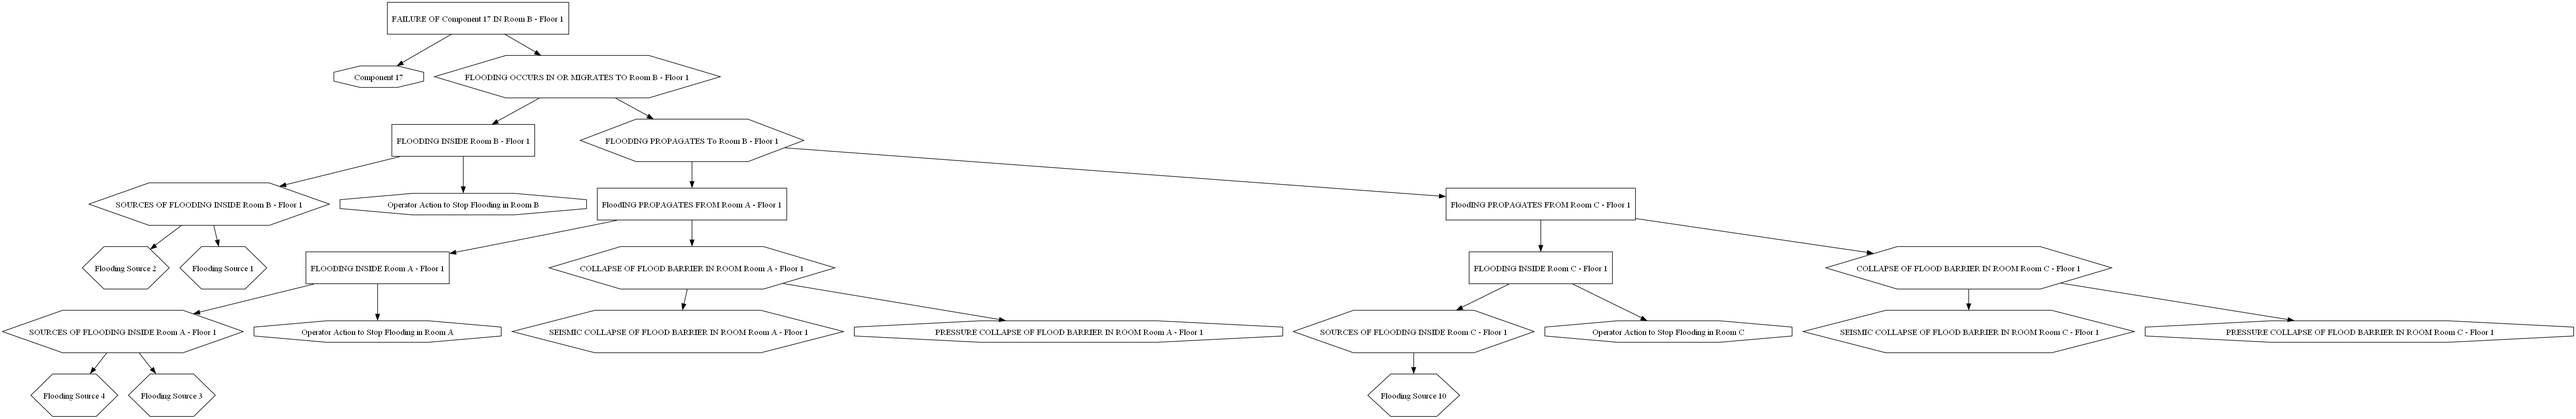
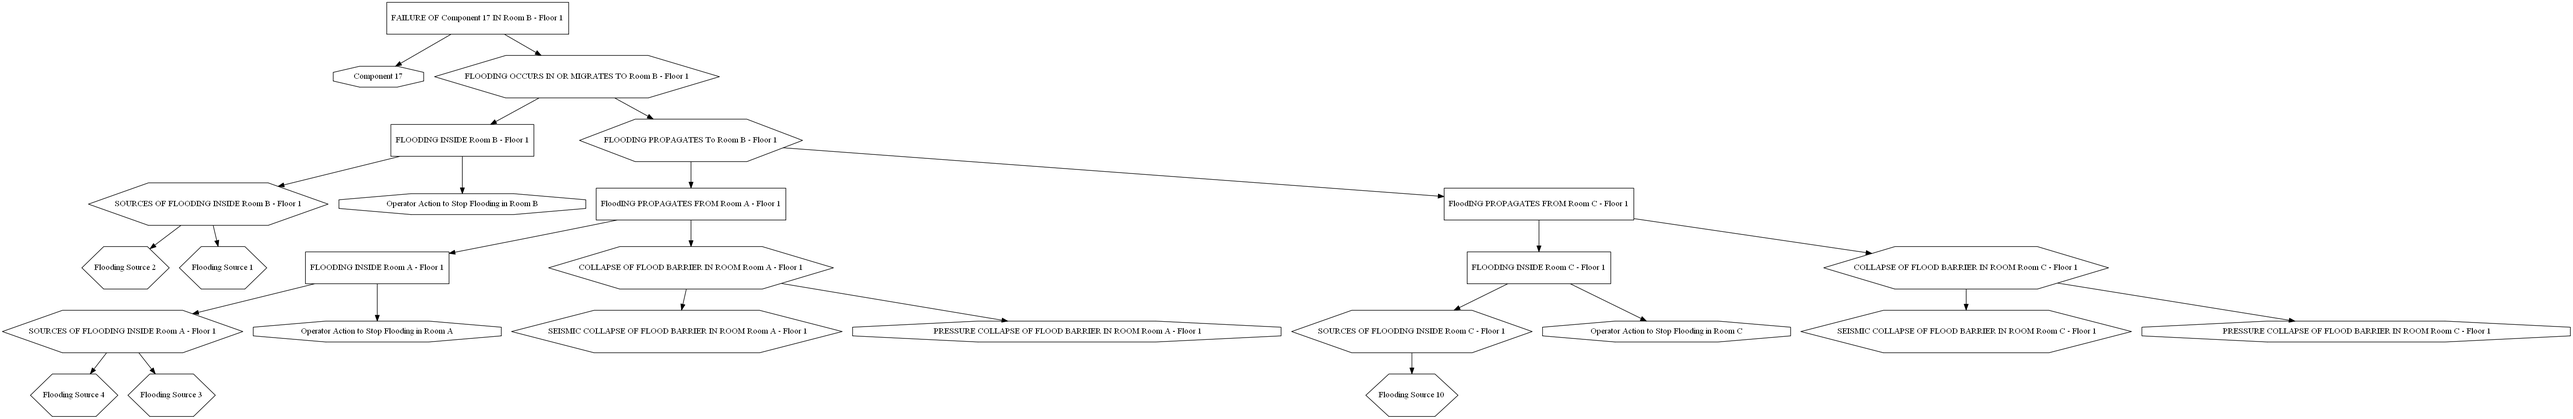
Mainshock fault tree is created by SeismicEvent class based on MongoDB

diff --git a/src/mainshock_aftershocks/tree_builder.py b/src/mainshock_aftershocks/tree_builder.py
@@ -1,0 +1,248 @@
+from src.imports import *
+
+
+class Node:
+    def __init__(self, logic_type, description, node_type,name,failure_model=None):
+        self.logic_type = logic_type
+        self.description = description
+        self.node_type = node_type
+        self.name = name
+        self.failure_model = failure_model
+
+        self.children = []
+
+
+class TreeBuilder:
+    def __init__(self,mongodb_uri,db_name):
+        self.tree = None
+        self.client = MongoClient(mongodb_uri)
+        self.db = self.client[db_name]
+        self.general_input_collection = self.db["General_Input"]
+        self.unique_gate_names = set()
+        self.unique_ft_names = set()
+        self.unique_BE_names = set()  # New set for Basic Event names
+
+    def build_tree(self, data):
+        self.tree = self._build_node(data)
+
+    def _build_node(self, node_data):
+        logic_type = node_data.get("logic_type")
+
+        # Check if logic_type is None or name is None, and if so, return None to ignore this node
+        if logic_type is None or node_data.get("name") is None:
+            return None
+
+        description = node_data.get("description")
+        node_type = node_data.get("type")
+        name = node_data.get("name")
+        failure_model = node_data.get("failure_model")  # Failure model is optional
+
+        node = Node(logic_type, description, node_type, name,failure_model)
+
+
+        if "inputs" in node_data:
+            inputs = node_data["inputs"]
+            if isinstance(inputs, dict):
+                input_node = self._build_node(inputs)
+                if input_node:
+                    node.children.append(input_node)
+            elif isinstance(inputs, list):
+                for input_node_data in inputs:
+                    input_node = self._build_node(input_node_data)
+                    if input_node:
+                        node.children.append(input_node)
+        return node
+
+    def create_graph(self, node=None, graph=None, added_edges=None):
+        if node is None:
+            node = self.tree
+        if graph is None:
+            graph = pydot.Dot(graph_type="digraph")
+        if added_edges is None:
+            added_edges = set()
+
+        if node.logic_type == "BE":
+            node_shape = "octagon"
+            node_width = 0.2
+            node_height = 0.2
+        elif node.logic_type == "OR":
+            node_shape = "hexagon"
+            node_width = 1.0
+            node_height = 1.0
+        elif node.logic_type == "AND":
+            node_shape = "rectangle"
+            node_width = 1.5
+            node_height = 0.75
+        else:
+            node_shape = "rectangle"
+            node_width = 1.0
+            node_height = 0.5
+
+        graph.add_node(pydot.Node(node.description, label=node.description, shape=node_shape, width=node_width,
+                                  height=node_height))
+
+        for child in node.children:
+            if child is not None:  # Check if child is not None
+                edge_description = f"{node.description}->{child.description}"
+                if edge_description not in added_edges:
+                    graph.add_edge(pydot.Edge(node.description, child.description))
+                    added_edges.add(edge_description)  # Add the edge to the set
+                    self.create_graph(child, graph, added_edges)
+        return graph
+
+    def visualize_tree(self):
+        graph = self.create_graph()
+        graph.write_png("seismic_fire_fault_tree.png")
+        img_path = os.path.abspath("seismic_fire_fault_tree.png")
+        img = Image.open(img_path)
+        img.show()
+
+    def print_tree(self, node=None, level=0):
+        if node is None:
+            return  # Exit the function if the node is None
+        print(node)
+        print("  " * level + f"Logic Type: {node.logic_type}, Description: {node.description}, Type: {node.node_type}")
+
+        for child in node.children:
+            self.print_tree(child, level + 1)
+
+    def write_gtd(self):
+        """Append gate descriptions to an existing .GTD file"""
+        # Get current file directory
+        current_dir = os.path.dirname(os.path.abspath(__file__))
+        # Gate file name
+        filename = 'seismic_induced_fire.GTD'
+
+        # Construct output directory
+        output_dir = os.path.join(current_dir, "output")
+
+        # Create directory if it doesn't exist
+        os.makedirs(output_dir, exist_ok=True)
+
+        # Build full file path
+        file_path = os.path.join(output_dir, filename)
+
+        with open(file_path, 'a') as f:
+
+            def collect_gates(node):
+                if node.node_type == "GT":
+                    if node.name not in self.unique_gate_names:
+                        f.write(f"{node.name},{node.description}, G-PWR\n")
+                        self.unique_gate_names.add(node.name)
+                for child in node.children:
+                    collect_gates(child)
+
+            collect_gates(self.tree)
+
+
+    def write_ftd(self):
+        """Append gate descriptions to an existing .GTD file"""
+        # Get current file directory
+        current_dir = os.path.dirname(os.path.abspath(__file__))
+
+        # Construct output directory
+        output_dir = os.path.join(current_dir,  "output")
+
+        # fault tree file name
+        filename = 'seismic_induced_fire.FTD'
+        # Create directory if it doesn't exist
+        os.makedirs(output_dir, exist_ok=True)
+
+        # Build full file path
+        file_path = os.path.join(output_dir, filename)
+
+        with open(file_path, 'a') as f:
+
+            def collect_ft(node):
+                if node.node_type == "FT":
+                    if node.name not in self.unique_ft_names:
+                        f.write(f"{node.name},{node.description}, G-PWR\n")
+                        self.unique_ft_names.add(node.name)
+                for child in node.children:
+                    collect_ft(child)
+
+            collect_ft(self.tree)
+    def write_ftl(self):
+        current_dir = os.path.dirname(os.path.abspath(__file__))
+
+        # Construct output directory
+        output_dir = os.path.join(current_dir,  "output")
+
+        filename = 'seismic_induced_fire.FTL'
+
+
+        # Create directory if it doesn't exist
+        os.makedirs(output_dir, exist_ok=True)
+        with open(os.path.join(output_dir, filename), 'a') as f:
+            first_node_name = self.tree.name
+
+            f.write(f"G-PWR, {first_node_name} =\n")
+            def write_node(node):
+                if node.node_type == "seismic_FT":
+                    f.write(f"{node.name}                           TRAN\n")
+                elif node.node_type in ("FT", "GT"):
+                    f.write(f"{node.name}                      ")
+                    f.write(f"{node.logic_type}  ")
+                    for child in node.children:
+                        f.write(f"{child.name}     ")
+                    f.write("\n")
+                    for child in node.children:
+                        write_node(child)
+
+            write_node(self.tree)
+
+    def write_bed(self):
+        """Append Basic Event Descriptions (BED) to an existing file for nodes with logic_type == 'BE'"""
+        current_dir = os.path.dirname(os.path.abspath(__file__))
+        output_dir = os.path.join(current_dir,  "output")
+        os.makedirs(output_dir, exist_ok=True)
+        filename = 'seismic_induced_fire.BED'
+        file_path = os.path.join(output_dir, filename)
+
+        with open(file_path, 'a') as f:  # Change 'w' to 'a' for appending
+
+            def collect_nodes(node):
+                if node.logic_type == "BE":
+                    if node.name not in self.unique_BE_names:
+                        f.write(f"{node.name},{node.description}, PWR\n")
+                        self.unique_BE_names.add(node.name)
+                for child in node.children:
+                    collect_nodes(child)
+
+            collect_nodes(self.tree)
+
+
+    def write_bei(self):
+        """Append Basic Event Descriptions (BED) to an existing file for nodes with logic_type == 'BE'"""
+        current_dir = os.path.dirname(os.path.abspath(__file__))
+        output_dir = os.path.join(current_dir, "output")
+        os.makedirs(output_dir, exist_ok=True)
+        filename = 'seismic_induced_fire.BEI'
+        file_path = os.path.join(output_dir, filename)
+
+        with open(file_path, 'a') as f:  # Change 'w' to 'a' for appending
+
+            def collect_nodes(node):
+                if node.logic_type == "BE":
+                    f.write(f"{node.name},{node.description}, PWR\n")
+                for child in node.children:
+                    collect_nodes(child)
+
+            collect_nodes(self.tree)
+
+    def write_mard(self):
+
+        self.write_gtd()
+        self.write_ftd()
+        self.write_ftl()
+        self.write_bed()
+
+# Custom JSON Encoder to handle ObjectId
+class JSONEncoder(json.JSONEncoder):
+    def default(self, o):
+        if isinstance(o, ObjectId):
+            return str(o)  # Convert ObjectId to its string representation
+        return super(JSONEncoder, self).default(o)
+
+
+

diff --git a/src/mainshock_aftershocks/seismic.py b/src/mainshock_aftershocks/seismic.py
@@ -1,0 +1,126 @@
+from src.imports import *
+from tree_builder import TreeBuilder
+class SeismicEvent:
+    def __init__(self, mongodb_uri, db_name):
+        self.client = MongoClient(mongodb_uri)
+        self.db = self.client[db_name]
+
+        self.ssc_seismic = self.db["components"]
+        self.general_input = self.db["General_Input"]
+        self.mainshock_ft = self.db["mainshock_ft"]
+
+    def generate_mainshock_fault_tree(self):
+        # Mainshock PGA bins
+        ms_vector = self.general_input.find_one({}, {"Mainshock.MS_vector": 1})
+
+        if ms_vector is None:
+            raise ValueError("MS_vector is not found in the database.")
+
+        ms_vector_values = ms_vector.get("Mainshock", {}).get("MS_vector", None)
+
+        if not ms_vector_values:
+            raise ValueError("MS_vector is empty or not an array of numbers.")
+
+        if not all(isinstance(value, (int, float)) for value in ms_vector_values):
+            raise ValueError("MS_vector contains non-numeric values.")
+
+
+
+        cursor = self.ssc_seismic.find({})
+        for ssc_document in cursor:
+            # Call the mainshock fault tree template
+
+            room_id = str(ssc_document.get("room_id"))
+            ssc_name = str(ssc_document.get("name"))
+            ssc_description = str(ssc_document.get("description"))
+            mainshock_ft_template = self.mainshock_ft.find_one({"id": "MSFT"})
+            self.replace_placeholders(mainshock_ft_template,room_id,ssc_name,ssc_description)
+            self.remove_object_ids(mainshock_ft_template)
+
+
+            # Append the output of create_mainshock_pga_gate to mainshock_ft_template's inputs
+            mainshock_ft_template["inputs"].extend(self.create_mainshock_pga_gate(ssc_document,ms_vector_values))
+
+            # Now you have the updated mainshock_ft_template
+
+            # Return or use the updated mainshock_ft_template outside the loop
+        return mainshock_ft_template
+
+    def create_mainshock_pga_gate(self, ssc_document, ms_vector_values):
+        room_id = str(ssc_document.get("room_id"))
+        ssc_name = str(ssc_document.get("name"))
+        ssc_description = str(ssc_document.get("description"))
+        mainshock_gate_bins = []  # List to store the mainshock_gate_bin objects
+
+        if 'type' in ssc_document and ssc_document['type'] == 'SBE':
+            for bin_num, ms_bin in enumerate(ms_vector_values, start=1):
+                failure_model_params = ssc_document.get("failure_model", {})
+                failure_model_params["pga"] = ms_bin
+                mainshock_gate_bin = self.mainshock_ft.find_one({"id": "MSGT"})
+
+                for input in mainshock_gate_bin['inputs']:
+                    if 'id' in input and input['id'] == 'MS-BE':
+                        input["failure_model_params"] = failure_model_params
+                        self.replace_placeholders(mainshock_gate_bin, room_id, ssc_name, ssc_description, ms_bin,
+                                                  bin_num)
+                        self.remove_object_ids(mainshock_gate_bin)
+                        mainshock_gate_bins.append(mainshock_gate_bin)
+        return mainshock_gate_bins
+
+    def replace_placeholders(self, json_obj, room_id=None, ssc_name=None, ssc_description=None, PGA_bin=None,
+                             PGA_bin_num=None):
+        if isinstance(json_obj, dict):
+            for key, value in json_obj.items():
+                if isinstance(value, str):
+                    # Replace placeholders with correct values
+                    if ssc_name is not None:
+                        value = value.replace("[ssc_name]", ssc_name)
+                    if ssc_description is not None:
+                        value = value.replace("[ssc_description]", ssc_description)
+                    if room_id is not None:
+                        value = value.replace("[room_id]", str(room_id))
+                    if PGA_bin is not None:
+                        value = value.replace("[PGA_bin]", str(PGA_bin))
+                    if PGA_bin_num is not None:
+                        value = value.replace("[PGA_bin_num]", str(PGA_bin_num))
+                    json_obj[key] = value
+                elif isinstance(value, (dict, list)):
+                    self.replace_placeholders(value, room_id, ssc_name, ssc_description, PGA_bin, PGA_bin_num)
+        elif isinstance(json_obj, list):
+            for item in json_obj:
+                self.replace_placeholders(item, room_id, ssc_name, ssc_description, PGA_bin, PGA_bin_num)
+
+    def remove_object_ids(self, obj):
+        if isinstance(obj, dict):
+            # If it's a dictionary, iterate through its keys and values
+            for key, value in obj.items():
+                # Recursively process each value
+                obj[key] = self.remove_object_ids(value)
+        elif isinstance(obj, list):
+            # If it's a list, iterate through its elements
+            for i, item in enumerate(obj):
+                # Recursively process each item
+                obj[i] = self.remove_object_ids(item)
+        elif isinstance(obj, ObjectId):
+            # If it's an ObjectId, convert it to a string
+            return str(obj)
+
+        return obj
+
+def main():
+    mongodb_uri = 'mongodb+srv://akramsaid:Narcos99@myatlasclusteredu.nzilawl.mongodb.net'
+    general_db_name = 'MultiHazards_PRA_General'
+
+    # Usage example
+    tree = SeismicEvent(mongodb_uri, general_db_name)
+    mainshock_ft_template = tree.generate_mainshock_fault_tree()
+
+    # Assuming you want to create and visualize the tree using TreeBuilder
+    ft = TreeBuilder(mongodb_uri, general_db_name)
+    ft.build_tree(mainshock_ft_template)
+    ft.visualize_tree()
+
+if __name__ == "__main__":
+    main()
+
+
